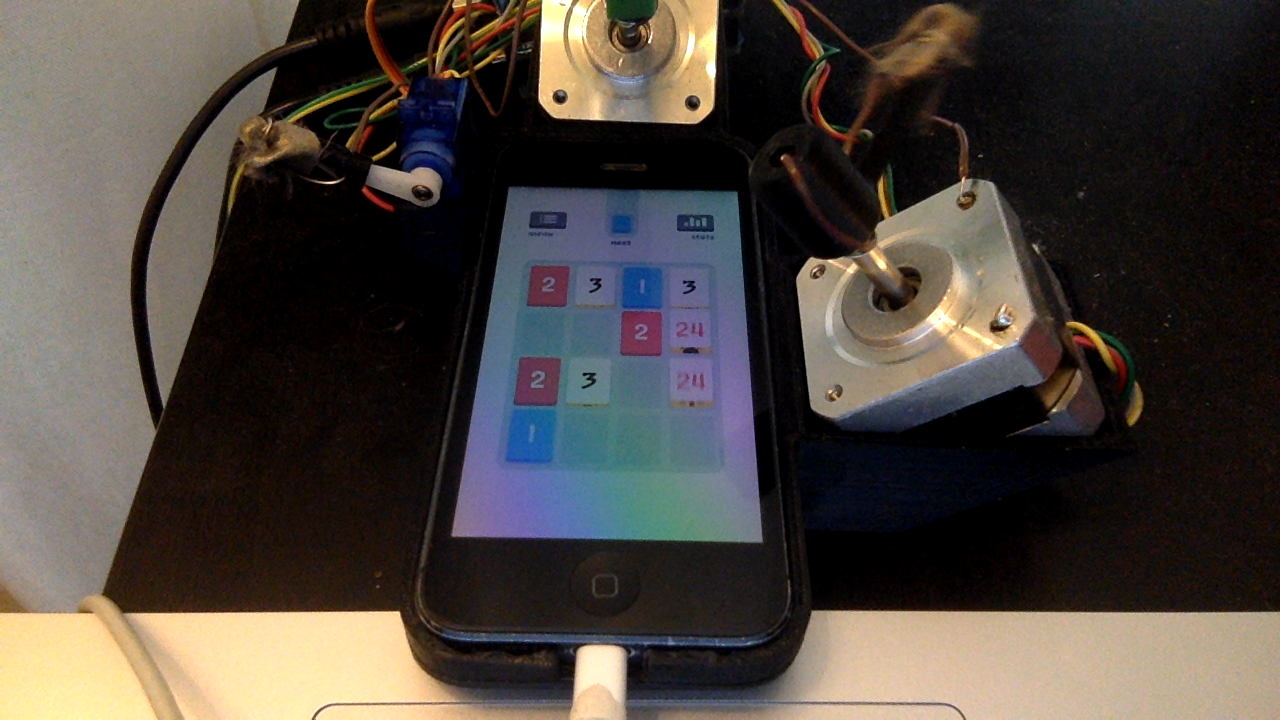
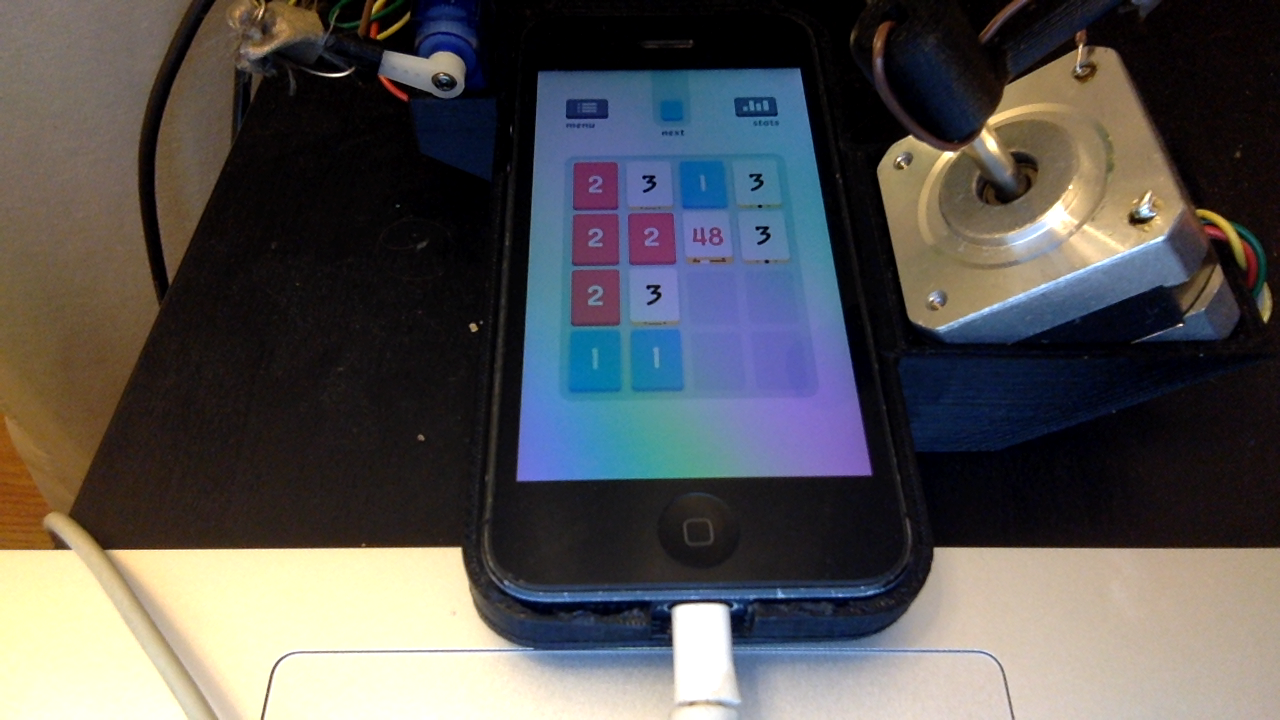
Single sifter for app, correctly orient screen contour, create tmp folder for storing images, average some images for less noise when sifting.

diff --git a/ThreesAI/RealThreesBoard.cpp b/ThreesAI/RealThreesBoard.cpp
@@ -16,7 +16,6 @@
 
 #include "RealThreesBoard.h"
 #include "SimulatedThreesBoard.h"
-#include "IMProc.h"
 
 using namespace std;
 using namespace cv;
@@ -24,9 +23,8 @@ using namespace cv;
 TileInfo::TileInfo(cv::Mat image, int value) {
     this->image = image;
     this->value = value;
-    SIFT sifter = SIFT();
-    sifter.detect(image, this->keypoints);
-    sifter.compute(image, this->keypoints, this->descriptors);
+    IMProc::sifter().detect(image, this->keypoints);
+    IMProc::sifter().compute(image, this->keypoints, this->descriptors);
 }
 
 const Point2f getpoint(const string& window) {
@@ -47,7 +45,7 @@ const array<Point2f, 4> getQuadrilateral(Mat m) {
 
 void RealThreesBoard::connectAndStart(string portName) {
     this->fd = serialport_init(portName.c_str(), 9600);
-    sleep(2); //Necessary to initialize the output for some reason
+    sleep(2); //Necessary to initialize the output for some
     if (this->fd >= 0) {
         serialport_write(this->fd, "b");
         serialport_flush(this->fd);
@@ -55,14 +53,13 @@ void RealThreesBoard::connectAndStart(string portName) {
 }
 
 int tileValue(Mat tileImage, const vector<TileInfo>& canonicalTiles) {
-    SIFT sifter = SIFT();
     FlannBasedMatcher matcher;
     
     vector<KeyPoint> tileKeypoints;
     Mat tileDescriptors;
     
-    sifter.detect(tileImage, tileKeypoints);
-    sifter.compute(tileImage, tileKeypoints, tileDescriptors);
+    IMProc::sifter().detect(tileImage, tileKeypoints);
+    IMProc::sifter().compute(tileImage, tileKeypoints, tileDescriptors);
     
     if (tileDescriptors.empty()) {
         //Probably blank
@@ -81,7 +78,13 @@ int tileValue(Mat tileImage, const vector<TileInfo>& canonicalTiles) {
             return sum + d.distance;
         })/float(matches.size());
         
+        Mat matchDrawing;
+        drawMatches(canonicalTile.image, canonicalTile.keypoints, tileImage, tileKeypoints, matches, matchDrawing);
+        MYSHOW(matchDrawing);
+        MYLOG(averageDistance);
+        
         if (averageDistance < min) {
+            MYLOG(canonicalTile.value)
             min = averageDistance;
             bestMatch = &canonicalTile;
         }
@@ -102,15 +105,33 @@ array<array<unsigned int, 4>, 4> boardState(Mat boardImage, const vector<TileInf
     return board;
 }
 
+Mat RealThreesBoard::getAveragedImage(unsigned char numImages) {
+    vector<Mat> images;
+    for (unsigned char i = 0; i < numImages; i++) {
+        Mat image;
+        this->watcher >> image;
+        images.push_back(image);
+    }
+    Mat averagedImage;
+    if (numImages == 0) {
+        return averagedImage;
+    }
+    averagedImage = Mat::zeros(images[0].rows, images[0].cols, images[0].type());
+    for (unsigned char i = 0; i < numImages; i++) {
+        averagedImage += images[i]/numImages;
+    }
+    return averagedImage;
+}
+
 RealThreesBoard::RealThreesBoard(string portName) : ThreesBoardBase(array<array<unsigned int, 4>, 4>({array<unsigned int, 4>({0,0,0,0}),array<unsigned int, 4>({0,0,0,0}),array<unsigned int, 4>({0,0,0,0}),array<unsigned int, 4>({0,0,0,0})})), watcher(0) {
-    this->connectAndStart(portName);
     
-    Mat colorBoardImage;
-    //TODO use image averaging here (we know the thing we are looking as isn't moving)
-    this->watcher >> colorBoardImage;
-    colorBoardImage = imread("/Users/drewgross/Projects/ThreesAI/TestCaseImages/x.png");
-    this->board = boardState(IMProc::colorImageToBoard(colorBoardImage), IMProc::canonicalTiles);
-    MYSHOW(colorBoardImage);
+    this->connectAndStart(portName);
+    Mat boardImage(this->getAveragedImage(5));
+    
+    boardImage = imread("/Users/drewgross/Projects/ThreesAI/TestCaseImages/x.png");
+    this->board = boardState(IMProc::colorImageToBoard(boardImage), IMProc::canonicalTiles);
+    MYSHOW(boardImage);
+    waitKey();
 }
 
 RealThreesBoard::~RealThreesBoard() {
@@ -139,18 +160,15 @@ pair<unsigned int, ThreesBoardBase::BoardIndex> RealThreesBoard::move(Direction 
         serialport_flush(fd);
     }
     
-    Mat colorBoardImage;
-    this->watcher >> colorBoardImage;
-    
-    
     SimulatedThreesBoard expectedBoardAfterMove = this->simulatedCopy();
     expectedBoardAfterMove.moveWithoutAdd(d);
     vector<ThreesBoardBase::BoardIndex> possiblyEmptyTilesAfterMoveWithoutAdd = expectedBoardAfterMove.validIndicesForNewTile(d);
     
+    Mat boardImage(this->getAveragedImage(5));
     this->isGameOverCacheIsValid = false;
-    this->board = boardState(IMProc::colorImageToBoard(colorBoardImage), IMProc::canonicalTiles);
+    this->board = boardState(IMProc::colorImageToBoard(boardImage), IMProc::canonicalTiles);
     if (!this->hasSameTilesAs(expectedBoardAfterMove, possiblyEmptyTilesAfterMoveWithoutAdd)) {
-        MYSHOW(colorBoardImage);
+        MYSHOW(boardImage);
         debug();
     }
     

diff --git a/ThreesAI/IMProc.cpp b/ThreesAI/IMProc.cpp
@@ -10,13 +10,21 @@
 
 #include <vector>
 #include <array>
+#include <algorithm>
+#include <numeric>
 
 #include <opencv2/opencv.hpp>
 
+#include "Debug.h"
 #include "Logging.h"
 
 using namespace std;
 using namespace cv;
+
+const cv::SIFT& IMProc::sifter() {
+    static cv::SIFT* sift = new cv::SIFT(0,3,0.04,10,1);
+    return *sift;
+}
 
 void showContours(Mat const image, vector<vector<Point>> const contours) {
     Mat contoursImage;
@@ -41,22 +49,39 @@ vector<Point> IMProc::findScreenContour(Mat const& image) {
     sort(contours.begin(), contours.end(), [](vector<Point> &left, vector<Point> &right){
         return contourArea(left) > contourArea(right);
     });
-    
-    vector<Point> screenContour;
-    for (auto&& contour : contours) {
+    transform(contours.begin(), contours.end(), contours.begin(), [](vector<Point> contour){
         double perimeter = arcLength(contour, true);
         vector<Point> approximatePoints;
         approxPolyDP(contour, approximatePoints, 0.02*perimeter, true);
-        
-        if (approximatePoints.size() == 4) {
-            screenContour = approximatePoints;
-            break;
+        return approximatePoints;
+    });
+    
+    vector<Point> screenContour = *find_if(contours.begin(), contours.end(), [](vector<Point> contour){
+        return contour.size() == 4;
+    });
+    
+    Point sum = accumulate(screenContour.begin(), screenContour.end(), Point(0,0));
+    Point center(sum.x/screenContour.size(), sum.y/screenContour.size());
+
+    vector<Point> orientedScreenContour(4);
+    for (auto&& point : screenContour) {
+        bool toLeft = point.x < center.x;
+        bool above = point.y < center.y;
+        if (toLeft && above) {
+            orientedScreenContour[0] = point;
+        }
+        if (!toLeft && above) {
+            orientedScreenContour[3] = point;
+        }
+        if (!toLeft && !above) {
+            orientedScreenContour[2] = point;
+        }
+        if (toLeft && !above) {
+            orientedScreenContour[1] = point;
         }
     }
-    
-    return screenContour;
+    return orientedScreenContour;
 }
-
 
 Mat IMProc::colorImageToBoard(Mat const& colorBoardImage) {
     Mat greyBoardImage;
@@ -83,7 +108,6 @@ Mat IMProc::colorImageToBoard(Mat const& colorBoardImage) {
     
     warpPerspective(screenImage, outputImage, getPerspectiveTransform(fromScreenPoints, toPoints), Size(800,800));
     MYSHOW(outputImage);
-    
     
     return outputImage;
 }

diff --git a/ThreesAI/Logging.cpp b/ThreesAI/Logging.cpp
@@ -9,6 +9,7 @@
 #include "Logging.h"
 
 #include <numeric> 
+#include <sys/stat.h>
 
 using namespace std;
 using namespace cv;
@@ -38,6 +39,7 @@ void Log::imShow(const string& winname, cv::InputArray image, double scale) {
     imshow(winname, smaller);
     
     string filename = "/tmp/threesAIdata/";
+    mkdir(filename.c_str(), ACCESSPERMS);
     filename.append(winname);
     filename.append(".png");
     imwrite(filename, image);

diff --git a/ThreesAI/IMProc.h b/ThreesAI/IMProc.h
@@ -14,6 +14,7 @@
 #include <vector>
 
 #include <opencv2/opencv.hpp>
+#include <opencv2/nonfree/nonfree.hpp>
 
 class TileInfo {
 public:
@@ -31,6 +32,8 @@ namespace IMProc {
     const std::vector<TileInfo> loadCanonicalTiles();
     
     const std::vector<TileInfo> canonicalTiles = IMProc::loadCanonicalTiles();;
+    
+    const cv::SIFT& sifter();
 }
 
 #endif /* defined(__ThreesAI__IMProc__) */

diff --git a/ThreesAI/RealThreesBoard.h b/ThreesAI/RealThreesBoard.h
@@ -12,9 +12,9 @@
 #include <stdio.h>
 
 #include <opencv2/opencv.hpp>
-#include <opencv2/nonfree/nonfree.hpp>
 
 #include "ThreesBoardBase.h"
+#include "IMProc.h"
 
 class RealThreesBoard : public ThreesBoardBase {
 public:
@@ -29,6 +29,8 @@ public:
     
 private:
     cv::VideoCapture watcher;
+    
+    cv::Mat getAveragedImage(unsigned char numImages);
     
     int fd;
     
